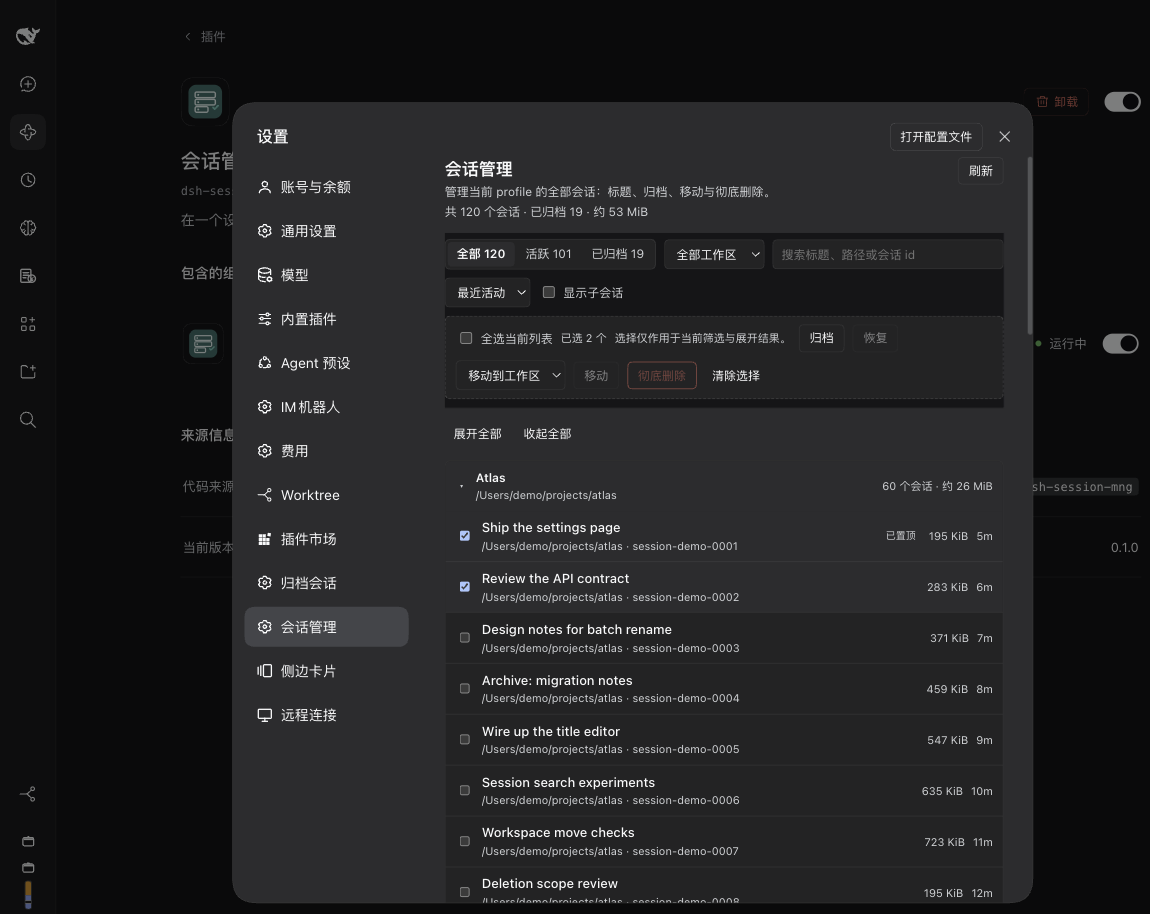
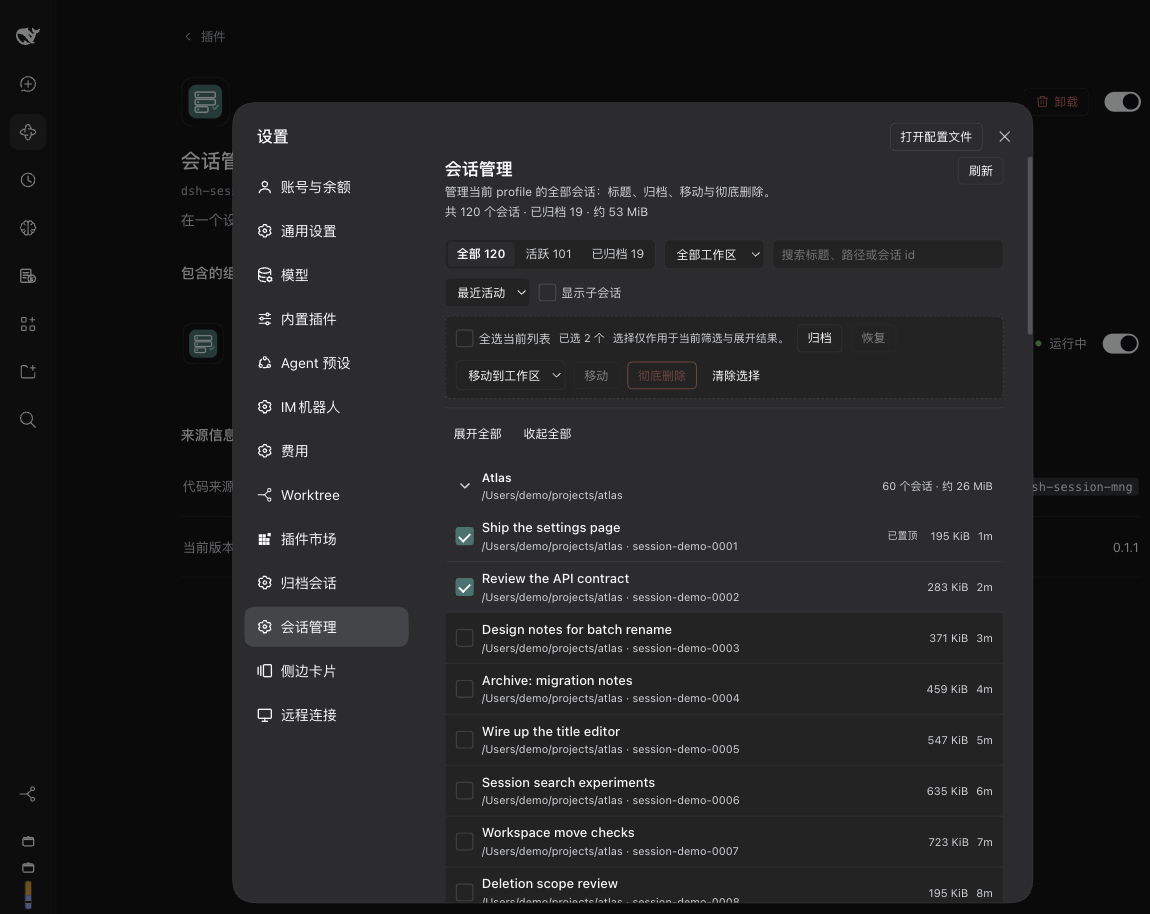
fix: align sticky surface and enlarge list controls

diff --git a/client.js b/client.js
@@ -356,7 +356,7 @@ window.__ModuleLoader__.load({
 .dsm-note-actions{display:flex;gap:6px;flex-wrap:wrap;flex:0 0 auto}
 .dsm-note detail{flex:1 1 100%}
 .dsm-sticky{position:sticky;top:0;z-index:3;display:flex;flex-direction:column;gap:8px;
- padding:6px 0 8px;background:var(--dsw-alias-bg-base);border-bottom:1px solid var(--dsw-alias-border-l1)}
+ padding:6px 0 8px;background:var(--dsw-alias-bg-layer-2);border-bottom:1px solid var(--dsw-alias-border-l1)}
 .dsm-batch{display:flex;align-items:center;gap:8px;flex-wrap:wrap;padding:8px 10px;border-radius:7px;
  border:1px dashed var(--dsw-alias-border-l2);background:var(--dsw-alias-bg-layer-1)}
 .dsm-list-actions{display:flex;align-items:center;gap:8px;flex-wrap:wrap;padding:0 2px}
@@ -365,7 +365,21 @@ window.__ModuleLoader__.load({
  background:var(--dsw-alias-bg-layer-2);border:none;font:inherit;color:inherit;text-align:left;cursor:pointer}
 .dsm-group-head:hover:not(:disabled){background:var(--dsw-alias-bg-layer-1)}
 .dsm-group-head:disabled{cursor:default;opacity:.85}
-.dsm-chev{flex:0 0 12px;font-size:10px;line-height:16px;color:var(--dsw-alias-label-secondary);text-align:center}
+.dsm-chev{flex:0 0 18px;width:18px;height:18px;display:inline-flex;align-items:center;justify-content:center;
+ color:var(--dsw-alias-label-secondary)}
+.dsm-row input[type="checkbox"],.dsm-check input[type="checkbox"]{
+ appearance:none;-webkit-appearance:none;width:18px;height:18px;margin:0;flex:0 0 auto;
+ border:1.5px solid var(--dsw-alias-border-l2);border-radius:4px;background:transparent;
+ display:inline-grid;place-content:center;cursor:pointer;transition:background .12s,border-color .12s}
+.dsm-row input[type="checkbox"]::before,.dsm-check input[type="checkbox"]::before{
+ content:'';width:9px;height:5px;border-left:2px solid #fff;border-bottom:2px solid #fff;
+ transform:rotate(-45deg) scale(0);transition:transform .12s}
+.dsm-row input[type="checkbox"]:checked,.dsm-check input[type="checkbox"]:checked{
+ background:#0f766e;border-color:#0f766e}
+.dsm-row input[type="checkbox"]:checked::before,.dsm-check input[type="checkbox"]:checked::before{
+ transform:rotate(-45deg) scale(1)}
+.dsm-row input[type="checkbox"]:focus-visible,.dsm-check input[type="checkbox"]:focus-visible{
+ outline:2px solid #14b8a6;outline-offset:2px}
 .dsm-more{width:100%;justify-content:center;border-radius:0;border-left:none;border-right:none;
  border-bottom:none;border-top:1px solid var(--dsw-alias-border-l1);min-height:30px}
 .dsm-group-title{font-size:12px;font-weight:600;line-height:18px}
@@ -671,7 +685,18 @@ window.__ModuleLoader__.load({
             title: locked === true ? t('searchAutoExpand') : undefined,
             onClick: onToggle,
           },
-          h('span', { className: 'dsm-chev', 'aria-hidden': 'true' }, group.expanded === true ? '▾' : '▸'),
+          h('span', { className: 'dsm-chev', 'aria-hidden': 'true' },
+            h('svg', {
+              viewBox: '0 0 16 16',
+              width: 16,
+              height: 16,
+              fill: 'none',
+              stroke: 'currentColor',
+              'stroke-width': 1.6,
+              'stroke-linecap': 'round',
+              'stroke-linejoin': 'round',
+            }, h('path', { d: group.expanded === true ? 'M4 6l4 4 4-4' : 'M6 4l4 4-4 4' })),
+          ),
           h('div', { style: { minWidth: 0, flex: '1 1 auto' } },
             h('div', { className: 'dsm-group-title' }, group.title || t('workspaceUngrouped')),
             group.path ? h('div', { className: 'dsm-group-path' }, group.path) : null,
